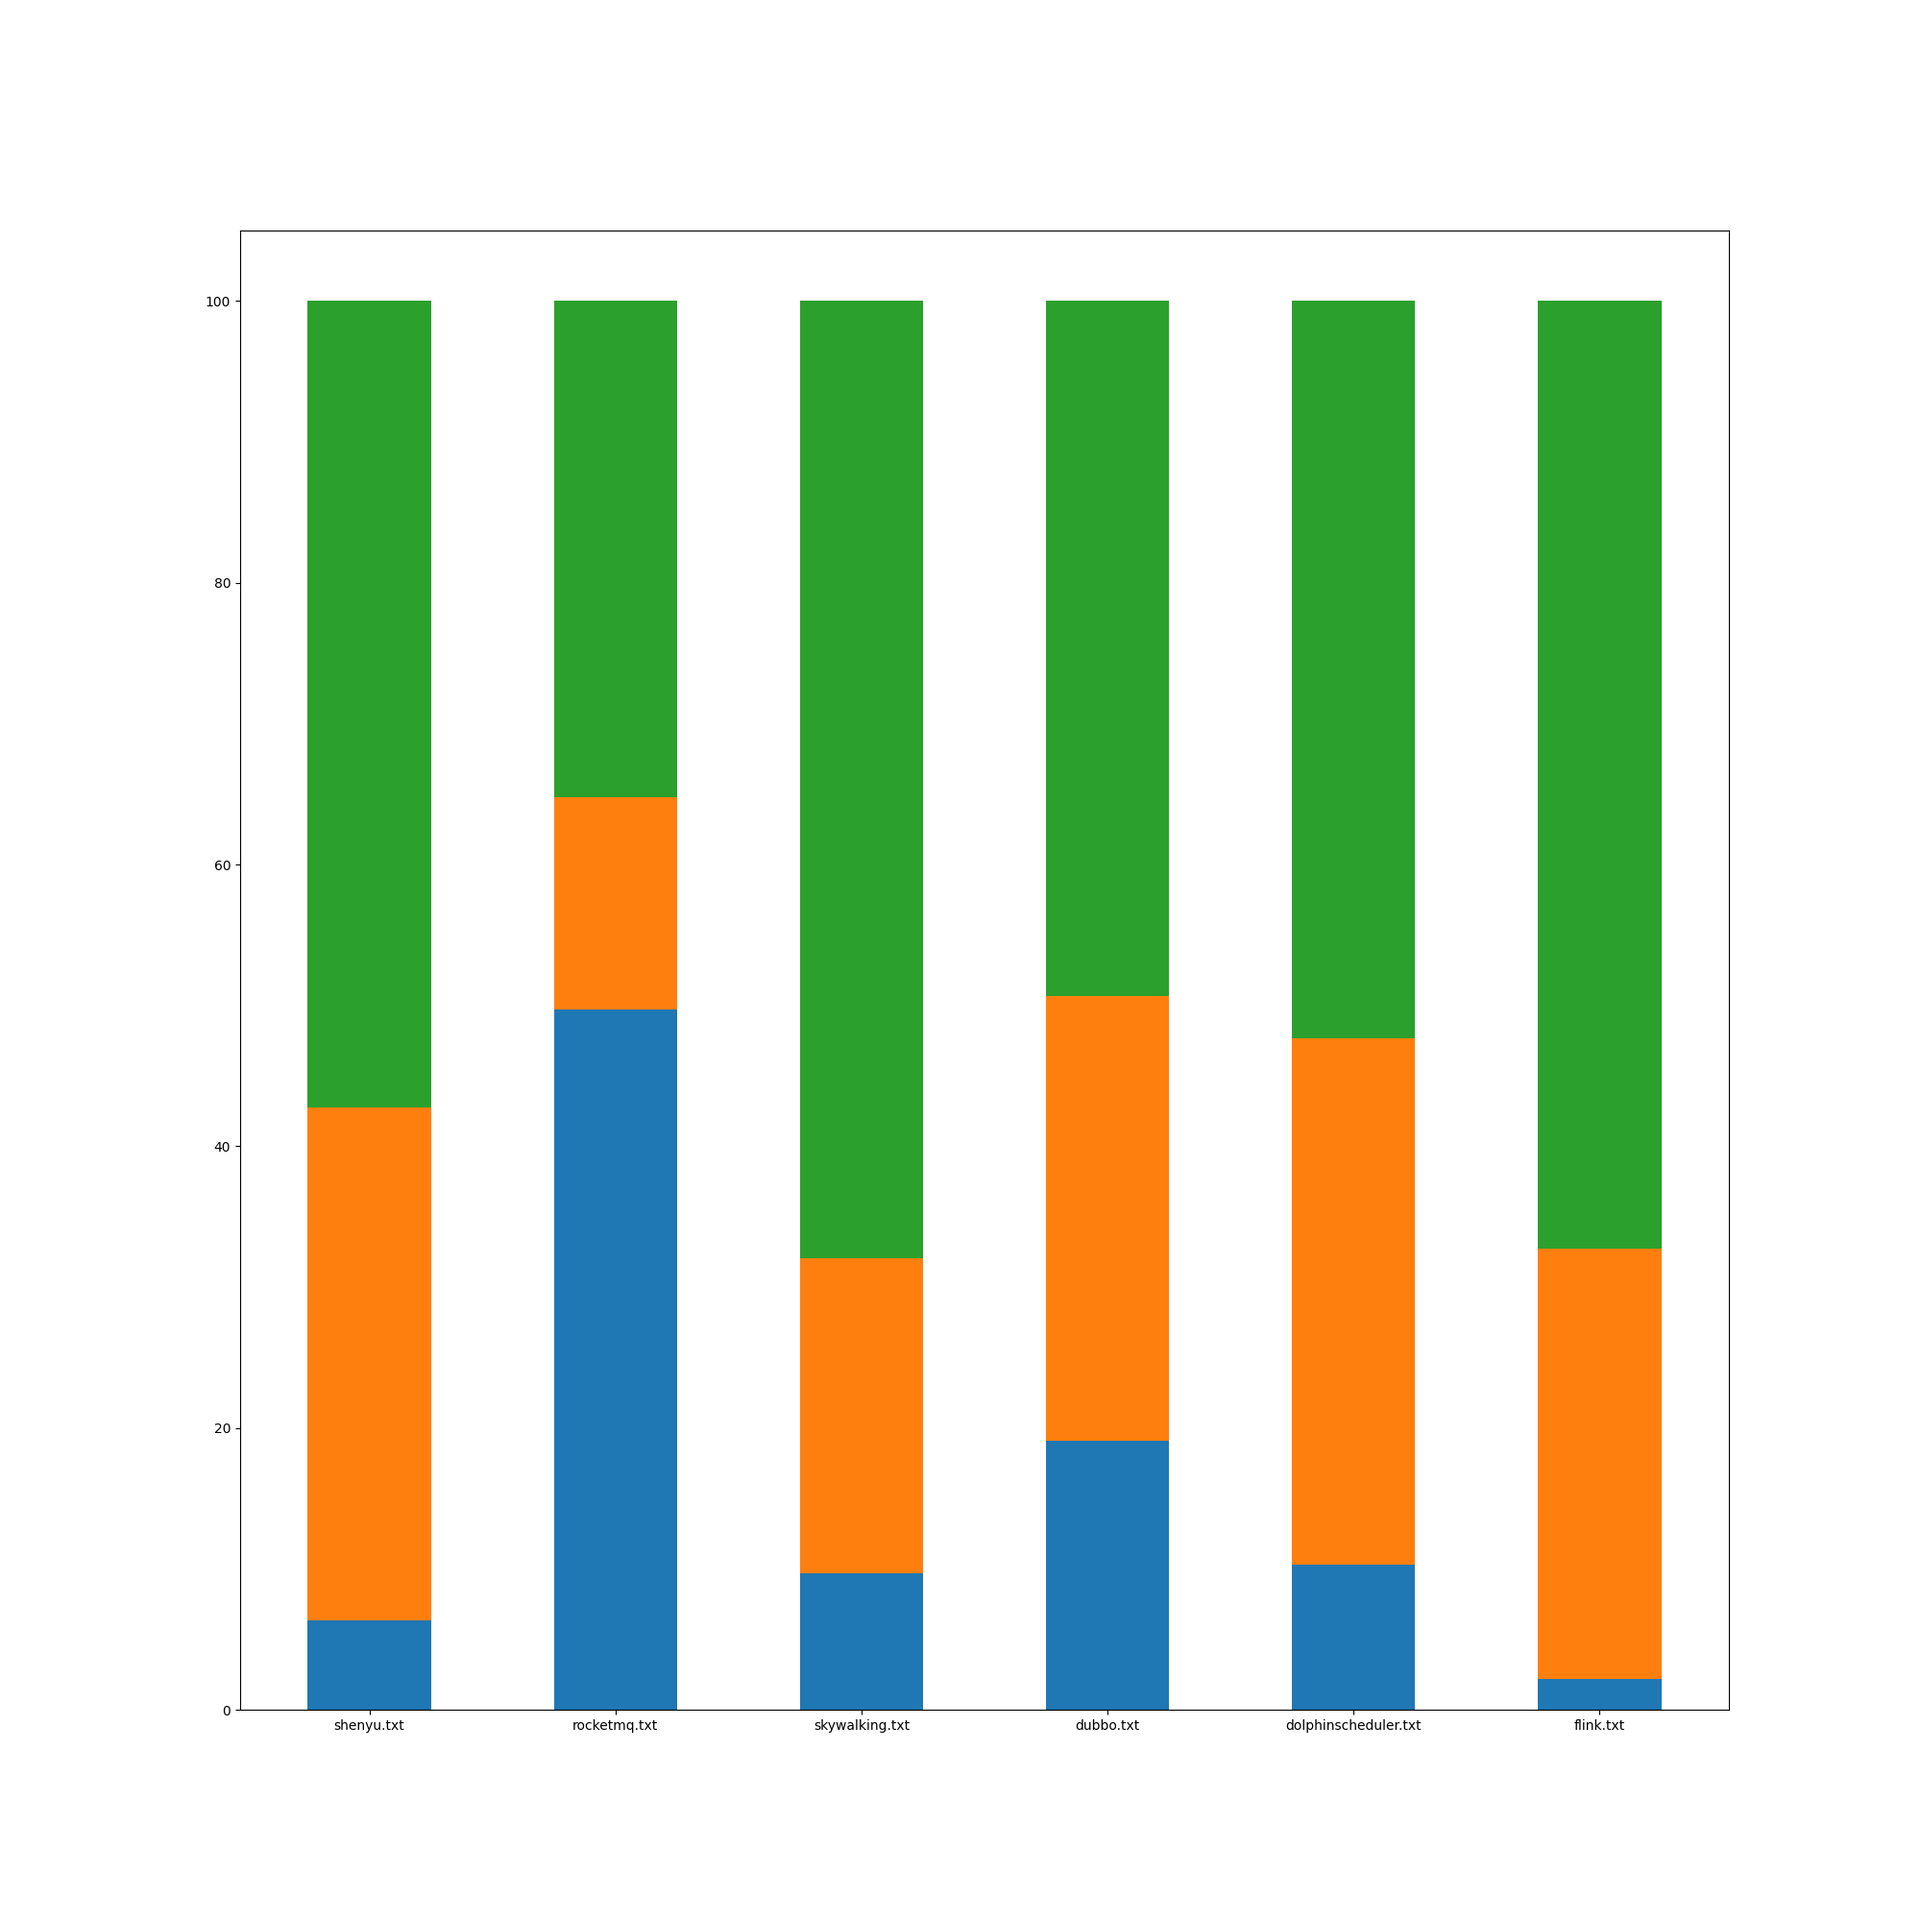
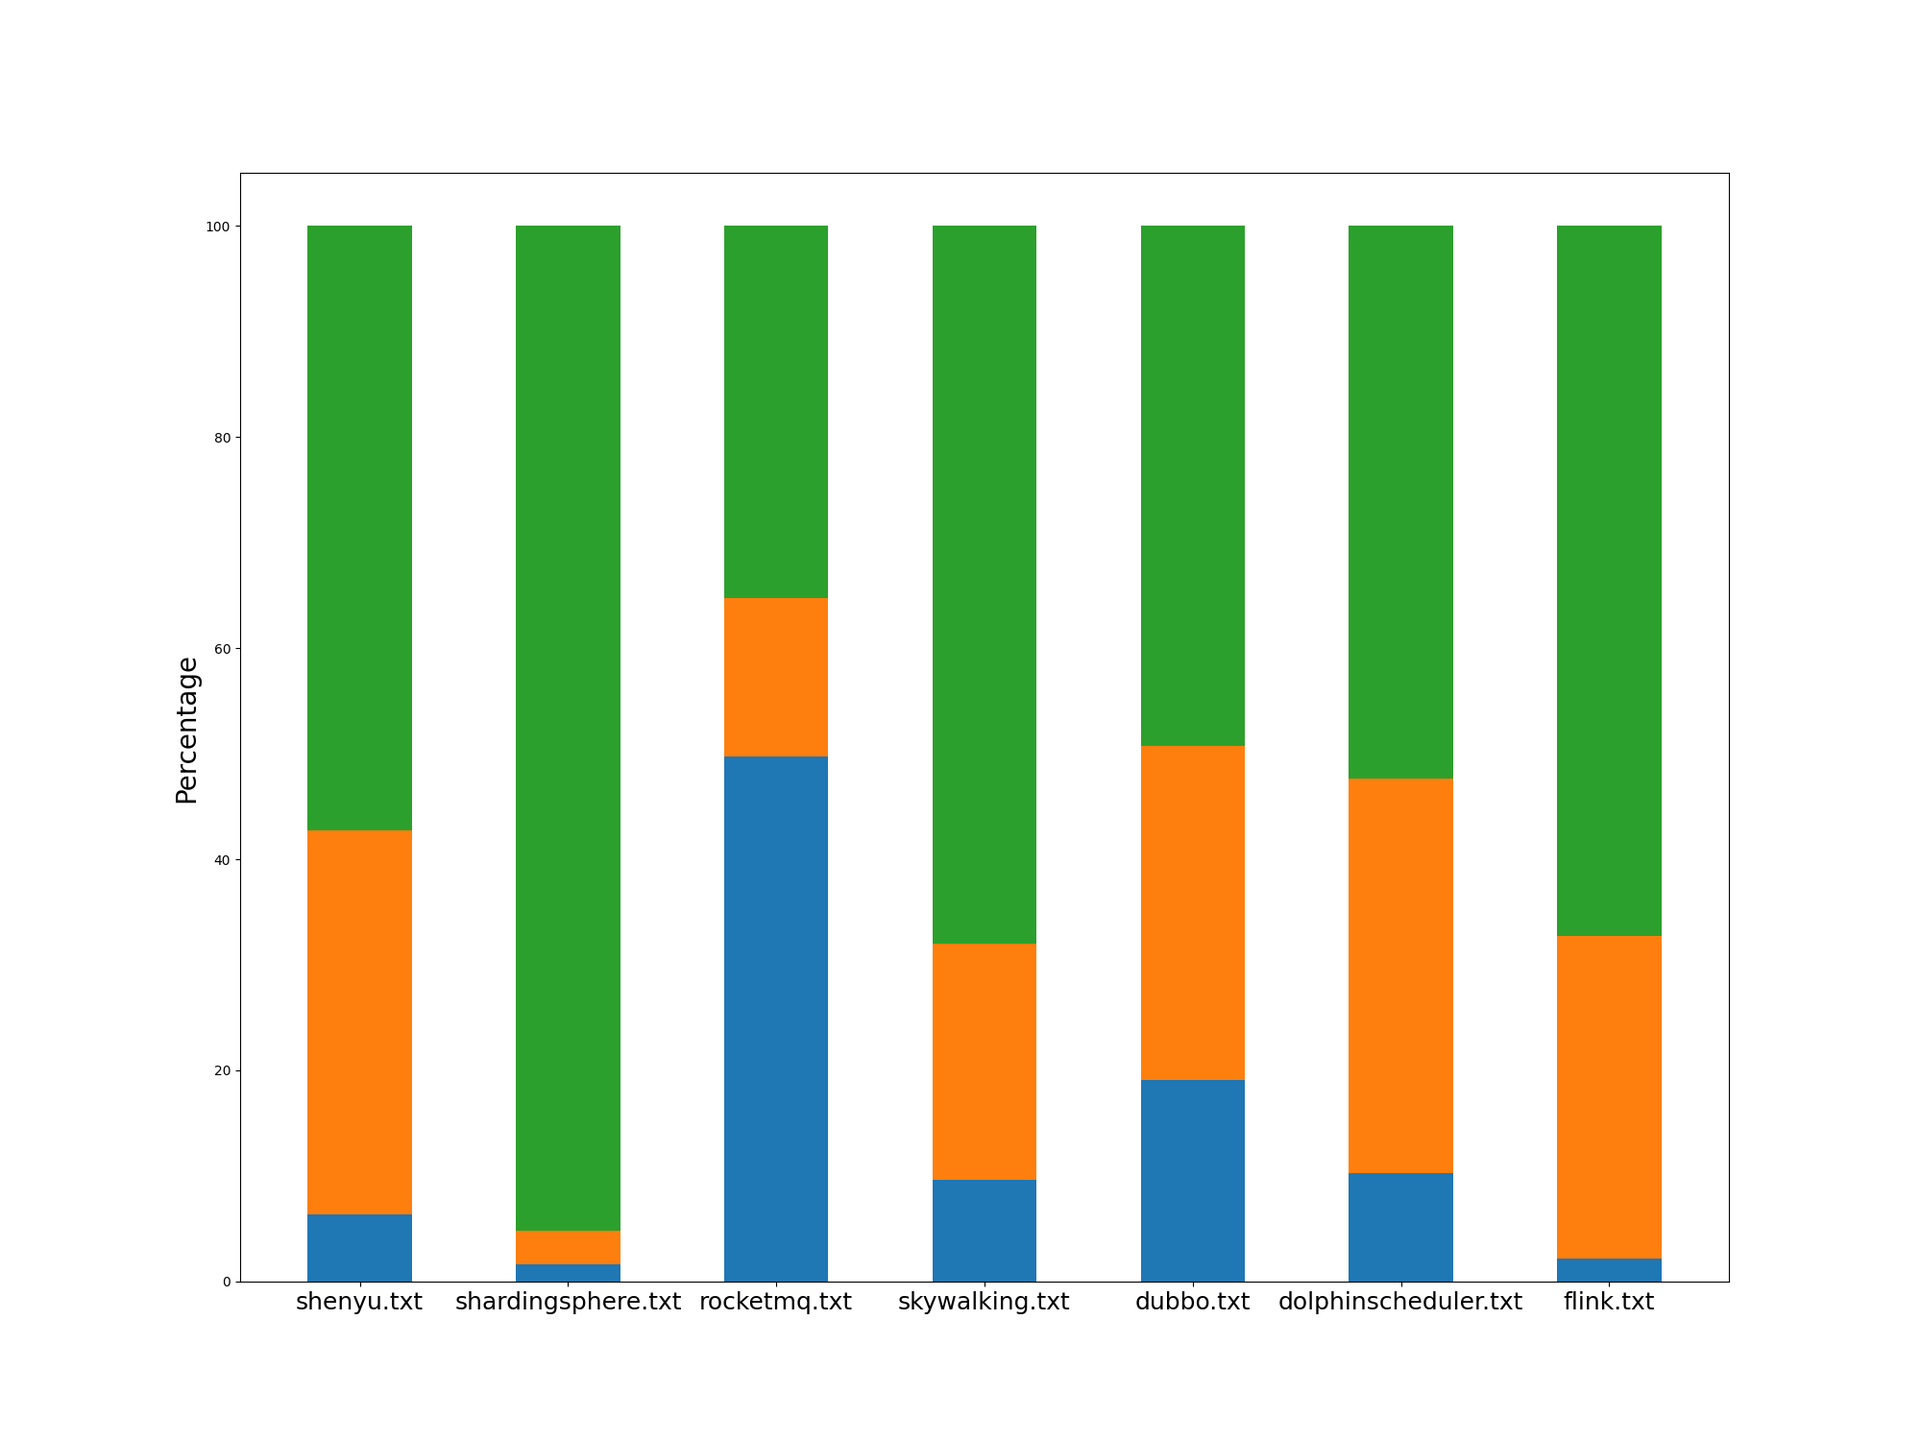
Added new data

Changed region(s): [[0.186, 0.1533, 0.868, 0.92], [0.093, 0.46, 0.124, 0.552], [0.155, 0.8893, 0.217, 0.92]]

diff --git a/data_analyzer.py b/data_analyzer.py
@@ -5,35 +5,33 @@ from util import BUCKET_SIZE, BUCKET_COUNT
 
 # Read data from txt and parse it into a dictionary
 def read_data(file):
+    res = {}
     try:
         f = open(file, 'r')
-        res = {}
-        for line in f.readlines():
-            args = line.split(':')
+        # STEP 1: read the general data
+        for i in range(3):
+            args = f.readline().split(':')
             res[args[0]] = int(args[1].strip())
+        # STEP 2: read data for each interval
+        for i in range(BUCKET_COUNT):
+            f.readline()
+            res["test_before_{}".format(i)] = int(f.readline().split(':')[1].strip())
+            res["test_same_{}".format(i)] = int(f.readline().split(':')[1].strip())
+            res["test_after_{}".format(i)] = int(f.readline().split(':')[1].strip())
         f.close()
         return res
     except:
         print("Cannot read file", file)
-        return None
+        return res
 
 def calc_frequency(numerator, denominator):
     return np.true_divide(numerator, denominator)
 
-# This is only meant for research question 1 now
-if __name__ == "__main__":
-    # STEP 1: Read and parse data from the data repository
-    data = {}
-    for file in os.listdir('./data'):
-        data[file] = read_data('./data/' + file)
-
-    # STEP 2: For each piece of data, draw on the plot
+def draw_stacked_freq(data, path):
     labels, test_before, test_same, test_after = [], [], [], []
 
     for f, d in data.items():
-        total = 0
-        for v in d.values():
-            total += v
+        total = d["test_before"] + d["test_same"] + d["test_after"]
         labels.append(f)
         test_before.append(calc_frequency(d["test_before"], total) * 100)
         test_same.append(calc_frequency(d["test_same"], total) * 100)
@@ -41,10 +39,31 @@ if __name__ == "__main__":
 
     index = np.arange(len(labels))
     bar_width = 0.5
-    plt.figure(figsize=(20, 20))
+    plt.figure(figsize=(20, 15))
     plt.bar(index, test_before, label="Test Before", width=bar_width)
     plt.bar(index, test_same, bottom=test_before, label="Test Same", width=bar_width)
     plt.bar(index, test_after, bottom=[test_before[i] + test_same[i] for i in range(len(test_same))], label="Test After", width=bar_width)
-    plt.xticks(index, labels)
+    plt.xticks(index, labels, fontsize=18)
+    plt.ylabel("Percentage", fontsize=20)
     # STEP 3: Output the plot
-    plt.savefig('./plots/histogram.png')
+    plt.savefig(path)
+
+def draw_line_graph(data, path):
+    test_before, test_same, test_after = [0] * BUCKET_COUNT, [0] * BUCKET_COUNT, [0] * BUCKET_COUNT
+    for repo in data.values():
+        for i in range(BUCKET_COUNT):
+            test_before[i] += repo["test_before_{}".format(i)]
+            test_same[i] += repo["test_same_{}".format(i)]
+            test_after[i] += repo["test_after_{}".format(i)]
+    x = [i * BUCKET_SIZE for i in range(BUCKET_COUNT)]
+
+# This is only meant for research question 1 now
+if __name__ == "__main__":
+    # STEP 1: Read and parse data from the data repository
+    data = {}
+    for file in os.listdir('./data'):
+        data[file] = read_data('./data/' + file)
+    
+    # STEP 2: Plot charts
+    draw_line_graph(data, "./plots")
+

diff --git a/repo_parser.py b/repo_parser.py
@@ -70,17 +70,19 @@ def parser_main(repo_url):
             print("\nUnable to access commit", commit.hash)
             continue
 
-        commits[commit.hash] = (commit.committer_date.timestamp(), commit.lines)
+        valid_commit = False
 
         for file in commit.modified_files:
             if file.change_type == ModificationType.ADD:
                 if is_test_file(file):
+                    valid_commit = True
                     file_without_extension = file.filename[0:len(file.filename) - 9]
                     has_test_class = True
                     if test_classes.get(file_without_extension) is None:
                         # Using commit's hash instead of timestamp
                         test_classes[file_without_extension] = commit.hash
                 elif is_tested_file(file):
+                    valid_commit = True
                     file_without_extension = file.filename[0:len(file.filename) - 5]
                     if tested_classes.get(file_without_extension) is None:
                         tested_classes[file_without_extension] = commit.hash
@@ -89,6 +91,7 @@ def parser_main(repo_url):
                 if is_test_file(file):
                     # parse the old name of the file
                     # check if the file exists in the path
+                    valid_commit = True
                     old_file_name = file.old_path.split('/')[-1]
                     old_file_without_extension = parse_test_file_name(old_file_name)
                     new_file_without_extension = parse_test_file_name(file.filename)
@@ -98,6 +101,7 @@ def parser_main(repo_url):
                     else:
                         test_classes[new_file_without_extension] = commit.hash
                 elif is_tested_file(file):
+                    valid_commit = True
                     old_file_name = file.old_path.split('/')[-1]
                     old_file_without_extension = parse_tested_file_name(old_file_name)
                     new_file_without_extension = parse_tested_file_name(file.filename)
@@ -115,7 +119,8 @@ def parser_main(repo_url):
                     file_without_extension = parse_tested_file_name(file.filename)
                     if tested_classes.get(file_without_extension) is not None:
                         del tested_classes[file_without_extension]
-
+        if valid_commit:
+            commits[commit.hash] = (commit.committer_date.timestamp(), commit.lines)
         if has_test_class:
             commit_with_test_class += 1
         # question 2
